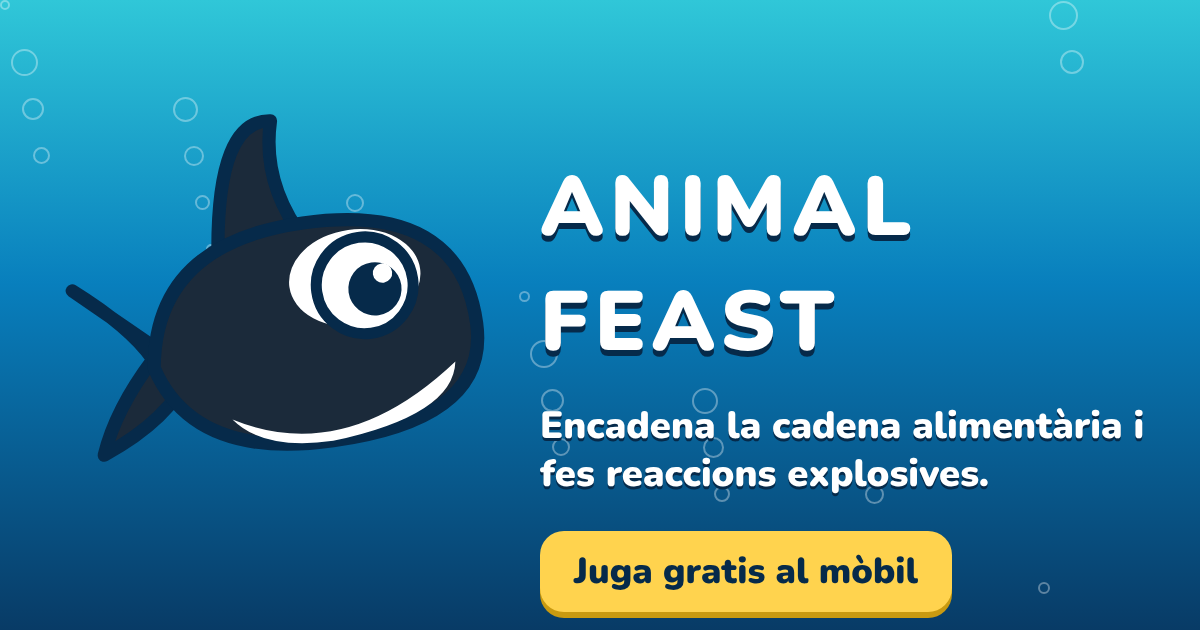
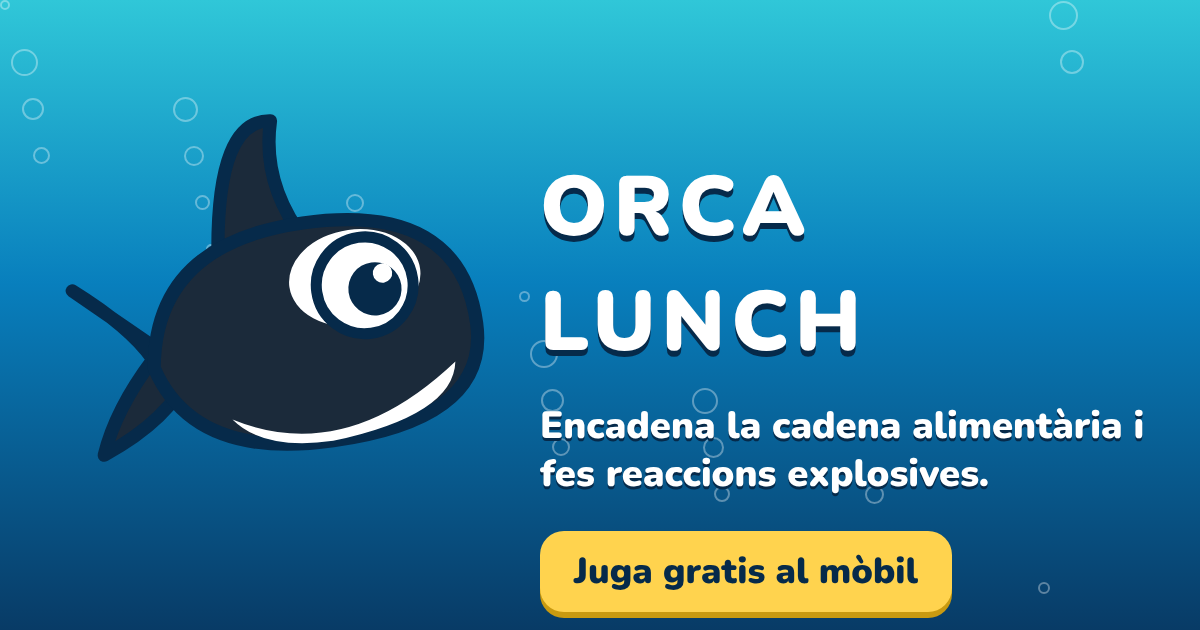
Orca Lunch: new name, first-game walkthrough, centred board
- Every visible name is now Orca Lunch (start screen, top bar, page
  title, app name, share text, link preview image). Code and storage
  keys keep their names, so records and settings carry over.
- The first game opens with a walkthrough: a small board where a finger
  traces the whole food chain and the orca eats it, looping until the
  player taps "A jugar!". The help can show it again.
- The board sits in the middle of the free space (slightly low) instead
  of at the bottom, which left a big gap under the score on phones with
  browser bars.

Claude-Session: https://claude.ai/code/session_01JE8NLrZBfBTqZihLA8GrLD

Changed region(s): [[0.4317, 0.2714, 0.7708, 0.3921], [0.4625, 0.4524, 0.74, 0.573]]

diff --git a/src/ui/Tutorial.tsx b/src/ui/Tutorial.tsx
@@ -1,0 +1,92 @@
+// First-game walkthrough: a small board where a finger traces a whole food chain, from the
+// smallest animal to the biggest, and the predator eats the rest. It loops until the player is ready.
+import { useEffect, useState } from 'react';
+import { renderSprite } from '../assets/spriteRegistry';
+import type { GameConfig, Pos } from '../engine/types';
+import { themeLevels, type Theme } from '../themes';
+import { STRINGS } from './strings';
+import { UI } from './uiConfig';
+
+const SIZE = 3;
+/** The chain the finger traces, lowest tier first (one cell per tier, ending with the predator). */
+const PATH: readonly Pos[] = [
+  { row: 2, col: 0 }, { row: 1, col: 0 }, { row: 1, col: 1 }, { row: 0, col: 1 }, { row: 0, col: 2 },
+];
+/** Tiers (1 = lowest) of the cells around the chain, so it looks like a real board. */
+const FILLER: Readonly<Record<string, number>> = { '0,0': 2, '1,2': 1, '2,1': 3, '2,2': 2 };
+
+type Stage = { kind: 'trace'; reached: number } | { kind: 'eat' } | { kind: 'rest' };
+
+export function TutorialModal({ theme, config, onDone }: { theme: Theme; config: GameConfig; onDone: () => void }) {
+  const T = STRINGS.tutorial;
+  const levels = themeLevels(theme, config.tiers.length);
+  // The demo chain uses the top tiers (all of them on a 5-tier board).
+  const chain = PATH.slice(PATH.length - Math.min(PATH.length, levels.length));
+  const firstTier = levels.length - chain.length + 1;
+  const [stage, setStage] = useState<Stage>({ kind: 'trace', reached: 0 });
+
+  useEffect(() => {
+    const D = UI.tutorial;
+    const next = (s: Stage): [Stage, number] => {
+      if (s.kind === 'trace') return s.reached + 1 < chain.length ? [{ kind: 'trace', reached: s.reached + 1 }, D.stepMs] : [{ kind: 'eat' }, D.stepMs];
+      if (s.kind === 'eat') return [{ kind: 'rest' }, D.eatMs];
+      return [{ kind: 'trace', reached: 0 }, D.restMs];
+    };
+    const [after, wait] = next(stage);
+    const id = window.setTimeout(() => setStage(after), stage.kind === 'trace' && stage.reached === 0 ? D.startMs : wait);
+    return () => window.clearTimeout(id);
+  }, [stage, chain.length]);
+
+  const cell = UI.tutorial.cellPx;
+  const reached = stage.kind === 'trace' ? stage.reached : chain.length - 1;
+  const finger = chain[Math.min(reached, chain.length - 1)];
+  const eaten = stage.kind !== 'trace';
+  const tierAt = (r: number, c: number): number | null => {
+    const i = chain.findIndex((p) => p.row === r && p.col === c);
+    if (i >= 0) return firstTier + i;
+    return FILLER[`${r},${c}`] ?? null;
+  };
+  const line = chain.slice(0, reached + 1).map((p) => `${(p.col + 0.5) * cell},${(p.row + 0.5) * cell}`).join(' ');
+  const names = [...levels].slice(firstTier - 1).map((l) => l.name.toLowerCase()).join(' → ');
+
+  return (
+    <div className="overlay tutorial-overlay">
+      <div className="sheet tutorial" role="dialog" aria-modal="true" aria-label={T.title}>
+        <h2>{T.title}</h2>
+        <p className="tutorial-goal">{T.goal}</p>
+        <div className="tutorial-board" style={{ width: cell * SIZE, height: cell * SIZE }} aria-hidden="true">
+          {Array.from({ length: SIZE * SIZE }, (_, k) => {
+            const r = Math.floor(k / SIZE), c = k % SIZE;
+            const tier = tierAt(r, c);
+            const i = chain.findIndex((p) => p.row === r && p.col === c);
+            const inChain = i >= 0 && i <= reached && stage.kind !== 'rest';
+            const gone = eaten && i >= 0 && i < chain.length - 1;
+            const predator = eaten && i === chain.length - 1;
+            const level = tier ? levels[tier - 1] : null;
+            return (
+              <div
+                key={k}
+                className={`tutorial-cell${inChain ? ' on' : ''}${gone ? ' gone' : ''}${predator && stage.kind === 'eat' ? ' chomp' : ''}`}
+                style={{ left: c * cell, top: r * cell, width: cell, height: cell }}
+              >
+                {level && <div className="tile-art">{renderSprite(level.sprite, { color: level.color })}</div>}
+              </div>
+            );
+          })}
+          {stage.kind === 'trace' && <svg className="tutorial-line" width={cell * SIZE} height={cell * SIZE}><polyline points={line} /></svg>}
+          {stage.kind === 'eat' && (
+            <div className="tutorial-points" style={{ left: (chain[chain.length - 1].col + 0.5) * cell, top: (chain[chain.length - 1].row + 0.2) * cell }}>{T.yum}</div>
+          )}
+          {stage.kind === 'trace' && (
+            <div className="tutorial-finger" style={{ transform: `translate(${(finger.col + 0.45) * cell}px, ${(finger.row + 0.5) * cell}px)` }}>👆</div>
+          )}
+        </div>
+        <p className="tutorial-chain">{names}</p>
+        <ul className="rules">
+          {T.points(config.chainLengths, config.adjacency === 8, config.allowDescendingTrace).map((line) => <li key={line}>{line}</li>)}
+        </ul>
+        <button className="primary-btn" onClick={onDone} autoFocus>{T.go}</button>
+      </div>
+    </div>
+  );
+}

diff --git a/src/ui/App.tsx b/src/ui/App.tsx
@@ -10,6 +10,7 @@ import { leaderboardEnabled } from '../leaderboard/config';
 import { sendFeedback, track } from '../leaderboard/track';
 import { installMode, onInstallChange, promptInstall } from './install';
 import { shareScore } from './share';
+import { TutorialModal } from './Tutorial';
 import { scenarioById } from '../scenarios';
 import { themeLevels, type Theme } from '../themes';
 import { Board } from './Board';
@@ -37,7 +38,7 @@ const theme = scenario.theme;
 const urlVariant = urlParam('variant');
 const startConfig = urlVariant && VARIANTS[urlVariant] ? makeConfig(VARIANTS[urlVariant].overrides) : scenario.config;
 
-type Sheet = 'help' | 'debug' | 'ranking' | 'feedback' | 'install';
+type Sheet = 'help' | 'debug' | 'ranking' | 'feedback' | 'install' | 'tutorial';
 
 function formatClock(ms: number): string {
   const s = Math.ceil(ms / 1000);
@@ -107,6 +108,15 @@ export function App() {
     pausedForSheet.current = g.phase === 'playing' || g.phase === 'ready';
     g.pause();
     setSheet(which);
+  };
+  // The first game starts with the walkthrough; it can be seen again from the help.
+  const startGame = () => {
+    if (loadFlag(UI.tutorialKey, false)) g.begin();
+    else setSheet('tutorial');
+  };
+  const finishTutorial = () => {
+    saveFlag(UI.tutorialKey, true);
+    if (g.phase === 'start') { setSheet(null); g.begin(); } else closeSheet();
   };
   const closeSheet = () => {
     setSheet(null);
@@ -196,16 +206,25 @@ export function App() {
         </button>
       </footer>
 
-      {sheet === 'help' && <HelpModal theme={theme} config={config} onClose={closeSheet} onFeedback={leaderboardEnabled() ? () => setSheet('feedback') : undefined} />}
+      {sheet === 'help' && (
+        <HelpModal
+          theme={theme}
+          config={config}
+          onClose={closeSheet}
+          onTutorial={() => setSheet('tutorial')}
+          onFeedback={leaderboardEnabled() ? () => setSheet('feedback') : undefined}
+        />
+      )}
       {sheet === 'debug' && <DebugPanel scenario={scenario} game={g.game} setup={debugSetup} onStart={startDebugGame} onClose={closeSheet} />}
       {sheet === 'ranking' && <RankingModal ranking={scenario.rankingId} onClose={closeSheet} />}
       {sheet === 'feedback' && <FeedbackModal context={{ scenario: scenario.id, phase: g.phase, score: g.game.score }} onClose={closeSheet} />}
       {sheet === 'install' && <InstallModal onClose={closeSheet} />}
+      {sheet === 'tutorial' && <TutorialModal theme={theme} config={config} onDone={finishTutorial} />}
       {g.phase === 'start' && !sheet && (
         <StartScreen
           theme={theme}
           tierCount={config.tiers.length}
-          onStart={g.begin}
+          onStart={startGame}
           onRanking={leaderboardEnabled() ? () => openSheet('ranking') : undefined}
           onFeedback={leaderboardEnabled() ? () => openSheet('feedback') : undefined}
           onInstall={install ? () => void offerInstall() : undefined}
@@ -268,7 +287,7 @@ function FoodChain({ theme, tierCount, large = false }: { theme: Theme; tierCoun
   );
 }
 
-function HelpModal({ theme, config, onClose, onFeedback }: { theme: Theme; config: GameConfig; onClose: () => void; onFeedback?: () => void }) {
+function HelpModal({ theme, config, onClose, onTutorial, onFeedback }: { theme: Theme; config: GameConfig; onClose: () => void; onTutorial: () => void; onFeedback?: () => void }) {
   const tierCount = config.tiers.length;
   const levels = themeLevels(theme, tierCount);
   const rules = STRINGS.helpRules({
@@ -290,7 +309,10 @@ function HelpModal({ theme, config, onClose, onFeedback }: { theme: Theme; confi
         <ul className="rules">
           {rules.map((r) => <li key={r}>{r}</li>)}
         </ul>
-        {onFeedback && <p><button type="button" className="link-btn" onClick={onFeedback}>💬 {STRINGS.feedback.button}</button></p>}
+        <p className="help-links">
+          <button type="button" className="link-btn" onClick={onTutorial}>👆 {STRINGS.tutorial.again}</button>
+          {onFeedback && <button type="button" className="link-btn" onClick={onFeedback}>💬 {STRINGS.feedback.button}</button>}
+        </p>
         <button className="primary-btn" onClick={onClose}>{STRINGS.close}</button>
       </div>
     </div>

diff --git a/src/index.css b/src/index.css
@@ -86,9 +86,9 @@ button { font: inherit; color: inherit; cursor: pointer; }
   display: flex;
   flex-direction: column;
   align-items: center;
-  /* Board low on the screen, closer to the thumb. */
-  justify-content: flex-end;
-  padding-bottom: 12px;
+  /* Board in the middle of the free space, a touch low (closer to the thumb) but never stuck to the bottom. */
+  justify-content: center;
+  padding: 20px 0 8px;
 }
 .board {
   position: relative;
@@ -479,6 +479,25 @@ button { font: inherit; color: inherit; cursor: pointer; }
   font-size: 18px;
   font-weight: 900;
 }
+.help-links { display: flex; justify-content: center; gap: 18px; flex-wrap: wrap; }
+
+/* First-game walkthrough */
+.tutorial-overlay { align-items: center; }
+.tutorial h2 { margin-bottom: 2px; }
+.sheet .tutorial-goal { margin-bottom: 10px; font-size: 18px; color: var(--gold); font-weight: 900; }
+.tutorial-board { position: relative; margin: 0 auto; border-radius: 16px; background: rgba(6, 42, 74, 0.45); }
+.tutorial-cell { position: absolute; padding: 5px; transition: transform 220ms, opacity 260ms; }
+.tutorial-cell .tile-art { width: 100%; height: 100%; border-radius: 12px; background: rgba(255, 255, 255, 0.08); transition: box-shadow 150ms, background 150ms; }
+.tutorial-cell .tile-art svg { width: 100%; height: 100%; }
+.tutorial-cell.on .tile-art { box-shadow: inset 0 0 0 3px var(--green); background: rgba(69, 199, 111, 0.28); }
+.tutorial-cell.gone { transform: scale(0.2); opacity: 0; }
+.tutorial-cell.chomp { animation: tutorial-chomp 420ms ease-out; }
+@keyframes tutorial-chomp { 30% { transform: scale(1.4, 0.8) rotate(-8deg); } 60% { transform: scale(0.9, 1.2) rotate(5deg); } }
+.tutorial-line { position: absolute; inset: 0; pointer-events: none; }
+.tutorial-line polyline { fill: none; stroke: var(--white); stroke-width: 8; stroke-linecap: round; stroke-linejoin: round; opacity: 0.7; }
+.tutorial-finger { position: absolute; left: 0; top: 0; font-size: 40px; line-height: 1; transition: transform 380ms ease-in-out; filter: drop-shadow(0 3px 2px rgba(0, 0, 0, 0.4)); }
+.tutorial-points { position: absolute; translate: -50% -50%; font-size: 26px; font-weight: 900; color: var(--gold); text-shadow: 0 2px 0 var(--ink); animation: rise 900ms ease-out forwards; }
+.sheet .tutorial-chain { margin: 10px 0 4px; font-size: 14px; color: var(--foam); font-weight: 800; }
 .start-links { display: flex; gap: 18px; margin-top: 4px; font-size: 15px; }
 .sheet.feedback textarea {
   width: 100%;

diff --git a/index.html b/index.html
@@ -8,20 +8,20 @@
     <link rel="preconnect" href="https://fonts.googleapis.com" />
     <link rel="preconnect" href="https://fonts.gstatic.com" crossorigin />
     <link rel="stylesheet" href="https://fonts.googleapis.com/css2?family=Nunito:wght@600;800;900&display=swap" />
-    <title>Animal Feast</title>
+    <title>Orca Lunch</title>
     <meta name="description" content="Encadena la cadena alimentària de l'oceà i fes reaccions explosives. Juga gratis al mòbil." />
     <link rel="manifest" href="/manifest.webmanifest" />
     <link rel="apple-touch-icon" href="/apple-touch-icon.png" />
     <meta name="apple-mobile-web-app-capable" content="yes" />
     <meta name="mobile-web-app-capable" content="yes" />
     <meta name="apple-mobile-web-app-status-bar-style" content="black-translucent" />
-    <meta name="apple-mobile-web-app-title" content="Animal Feast" />
+    <meta name="apple-mobile-web-app-title" content="Orca Lunch" />
     <!-- Link previews (WhatsApp, social networks): need absolute URLs, from .env. -->
     <meta property="og:type" content="website" />
-    <meta property="og:title" content="Animal Feast" />
+    <meta property="og:title" content="Orca Lunch" />
     <meta property="og:description" content="Encadena la cadena alimentària de l'oceà i fes reaccions explosives. Juga gratis al mòbil." />
     <meta property="og:url" content="%VITE_SITE_URL%" />
-    <meta property="og:image" content="%VITE_SITE_URL%og-image.png" />
+    <meta property="og:image" content="%VITE_SITE_URL%og-image.png?v=2" />
     <meta property="og:image:width" content="1200" />
     <meta property="og:image:height" content="630" />
     <meta property="og:locale" content="ca_ES" />

diff --git a/src/ui/strings.ts b/src/ui/strings.ts
@@ -1,6 +1,6 @@
 // All user-facing text (Catalan).
 export const STRINGS = {
-  title: 'ANIMAL FEAST',
+  title: 'ORCA LUNCH',
   score: 'Punts',
   best: 'Rècord',
   help: 'Ajuda',
@@ -12,9 +12,21 @@ export const STRINGS = {
   pausedHint: 'Toca per continuar quan vulguis.',
   go: 'Som-hi!',
   tapToStart: 'Toca per començar',
+  tutorial: {
+    title: 'Com es juga',
+    goal: 'Completa la cadena tròfica!',
+    yum: 'Ñam!',
+    points: (lengths: readonly number[], diagonal: boolean, reverse: boolean) => [
+      `Llisca el dit per sobre de ${lengths.join(', ').replace(/, (\d+)$/, ' o $1')} animals seguits, del més petit al més gran${reverse || diagonal ? ` (${[reverse && 'també al revés', diagonal && (reverse ? 'en diagonal' : 'també en diagonal')].filter(Boolean).join(' i ')})` : ''}.`,
+      'Cada animal ha de ser just el següent de la cadena.',
+      'El més gran es menja els altres i guanyes punts. Com més llarga la cadena, més punts!',
+    ],
+    go: 'A jugar!',
+    again: 'Mira com es juga',
+  },
   share: {
     button: 'Repta un amic',
-    text: (score: string) => `He fet ${score} punts a Animal Feast 🐋 Em superes?`,
+    text: (score: string) => `He fet ${score} punts a Orca Lunch 🐋 Em superes?`,
   },
   install: {
     button: "Instal·la l'app",

diff --git a/src/ui/uiConfig.ts b/src/ui/uiConfig.ts
@@ -7,6 +7,9 @@ export const UI = {
   hitRadius: 0.35,
   /** Countdown before each game: 3, 2, 1 one step apart, then "go" stays on screen goMs. */
   countdown: { steps: 3, stepMs: 750, goMs: 700 },
+  /** First-game walkthrough (Tutorial.tsx): cell size and the pace of the finger. */
+  tutorial: { cellPx: 74, startMs: 700, stepMs: 480, eatMs: 900, restMs: 600 },
+  tutorialKey: 'animal-feast:tutorial-seen',
   /** Idle time before a possible chain glows. */
   hintDelayMs: 5000,
   /** Animation durations; no normal animation goes over maxAnimMs. */
